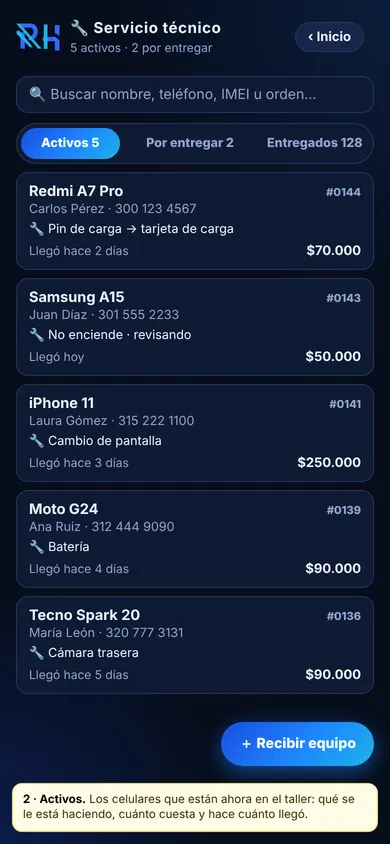
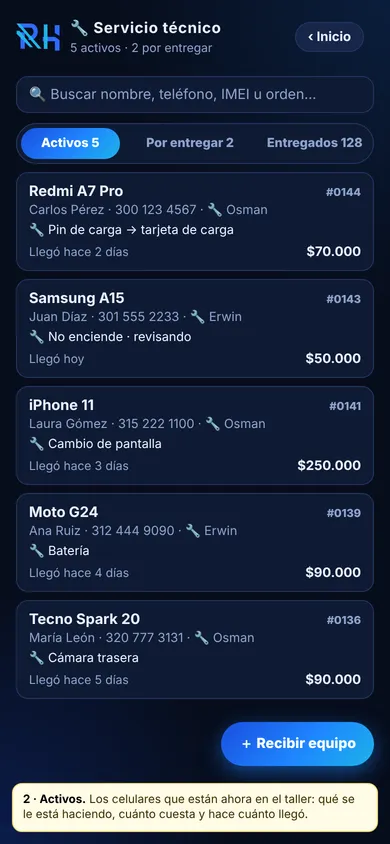
Maqueta Servicio técnico: técnico (Osman/Erwin) y sin garantía
Claude-Session: https://claude.ai/code/session_01DEMzrWSaudLimiiRZi8k6E

diff --git a/docs/servicio-tecnico/maqueta.html b/docs/servicio-tecnico/maqueta.html
@@ -143,17 +143,17 @@
 <div class="cuerpo">
  <div class="buscar">🔍 Buscar nombre, teléfono, IMEI u orden…</div>
  <div class="tabs3"><span class="on">Activos 5</span><span>Por entregar 2</span><span>Entregados 128</span></div>
- <div class="eq"><div class="top"><b>Redmi A7 Pro</b><span class="n">#0144</span></div><div class="c">Carlos Pérez · 300 123 4567</div><div class="t">🔧 Pin de carga → tarjeta de carga</div><div class="pie"><span>Llegó hace 2 días</span><span> <b>$70.000</b></span></div></div>
- <div class="eq"><div class="top"><b>Samsung A15</b><span class="n">#0143</span></div><div class="c">Juan Díaz · 301 555 2233</div><div class="t">🔧 No enciende · revisando</div><div class="pie"><span>Llegó hoy</span><span> <b>$50.000</b></span></div></div>
- <div class="eq"><div class="top"><b>iPhone 11</b><span class="n">#0141</span></div><div class="c">Laura Gómez · 315 222 1100</div><div class="t">🔧 Cambio de pantalla</div><div class="pie"><span>Llegó hace 3 días</span><span> <b>$250.000</b></span></div></div>
- <div class="eq"><div class="top"><b>Moto G24</b><span class="n">#0139</span></div><div class="c">Ana Ruiz · 312 444 9090</div><div class="t">🔧 Batería</div><div class="pie"><span>Llegó hace 4 días</span><span> <b>$90.000</b></span></div></div>
- <div class="eq"><div class="top"><b>Tecno Spark 20</b><span class="n">#0136</span></div><div class="c">María León · 320 777 3131</div><div class="t">🔧 Cámara trasera</div><div class="pie"><span>Llegó hace 5 días</span><span> <b>$90.000</b></span></div></div>
+ <div class="eq"><div class="top"><b>Redmi A7 Pro</b><span class="n">#0144</span></div><div class="c">Carlos Pérez · 300 123 4567 · 🔧 Osman</div><div class="t">🔧 Pin de carga → tarjeta de carga</div><div class="pie"><span>Llegó hace 2 días</span><span> <b>$70.000</b></span></div></div>
+ <div class="eq"><div class="top"><b>Samsung A15</b><span class="n">#0143</span></div><div class="c">Juan Díaz · 301 555 2233 · 🔧 Erwin</div><div class="t">🔧 No enciende · revisando</div><div class="pie"><span>Llegó hoy</span><span> <b>$50.000</b></span></div></div>
+ <div class="eq"><div class="top"><b>iPhone 11</b><span class="n">#0141</span></div><div class="c">Laura Gómez · 315 222 1100 · 🔧 Osman</div><div class="t">🔧 Cambio de pantalla</div><div class="pie"><span>Llegó hace 3 días</span><span> <b>$250.000</b></span></div></div>
+ <div class="eq"><div class="top"><b>Moto G24</b><span class="n">#0139</span></div><div class="c">Ana Ruiz · 312 444 9090 · 🔧 Erwin</div><div class="t">🔧 Batería</div><div class="pie"><span>Llegó hace 4 días</span><span> <b>$90.000</b></span></div></div>
+ <div class="eq"><div class="top"><b>Tecno Spark 20</b><span class="n">#0136</span></div><div class="c">María León · 320 777 3131 · 🔧 Osman</div><div class="t">🔧 Cámara trasera</div><div class="pie"><span>Llegó hace 5 días</span><span> <b>$90.000</b></span></div></div>
 </div>
 <div class="fab">＋ Recibir equipo</div>
 <div class="nota"><b>2 · Activos.</b> Los celulares que están ahora en el taller: qué se le está haciendo, cuánto cuesta y hace cuánto llegó.</div>
 </section>
 <section class="pantalla" id="p3">
-<div class="enc"><div><h1>#0144 · Redmi A7 Pro</h1><small>Carlos Pérez · 300 123 4567 · contraseña •••• <span style="color:var(--celeste)">ver</span></small></div><div class="acc"><span class="bt">‹ Volver</span></div></div>
+<div class="enc"><div><h1>#0144 · Redmi A7 Pro</h1><small>Carlos Pérez · 300 123 4567 · contraseña •••• <span style="color:var(--celeste)">ver</span><br>🔧 Técnico: Osman · <span style="color:var(--celeste)">cambiar</span></small></div><div class="acc"><span class="bt">‹ Volver</span></div></div>
 <div class="cuerpo" style="padding-top:0">
  <div class="tarjeta"><h4>🧾 Historial del arreglo</h4>
   <div class="linea" style="--c:var(--suave)"><small>25 nov 9:10 a. m. · Andrés</small>Llegó por <b>pin de carga</b>. No carga. Cotizado <b>$45.000</b>.</div>
@@ -228,7 +228,7 @@
 <section class="pantalla" id="p8">
 <div class="enc"><div><h1>#0144 · Redmi A7 Pro</h1><small>🔒 Entregado 27 nov · no se puede borrar</small></div><div class="acc"><span class="bt">‹ Volver</span></div></div>
 <div class="cuerpo" style="padding-top:0">
- <div class="tarjeta"><h4>👤 Cliente y equipo</h4><div class="kv"><span>Cliente</span><span>Carlos Pérez · 300 123 4567</span><span>Contraseña</span><span>•••• <span style="color:var(--celeste)">ver</span></span><span>Equipo</span><span>Redmi A7 Pro · azul · IMEI …7731</span><span>Llegó con</span><span>SIM, forro · Otro: llavero</span></div></div>
+ <div class="tarjeta"><h4>👤 Cliente y equipo</h4><div class="kv"><span>Cliente</span><span>Carlos Pérez · 300 123 4567</span><span>Contraseña</span><span>•••• <span style="color:var(--celeste)">ver</span></span><span>Equipo</span><span>Redmi A7 Pro · azul · IMEI …7731</span><span>Llegó con</span><span>SIM, forro · Otro: llavero</span><span>Técnico</span><span>Osman</span></div></div>
  <div class="tarjeta"><h4>🧾 Lo que se hizo</h4>
   <div class="linea" style="--c:var(--suave)"><small>25 nov · Andrés</small>Llegó por pin de carga. Cotizado $45.000.</div>
   <div class="linea" style="--c:var(--celeste)"><small>25 nov · Osman</small>Se cambió el pin. No funcionó. Tarjeta de carga mala.</div>
@@ -248,6 +248,7 @@
  <div class="dos"><div class="campo"><label>Equipo</label><div class="in ia">Samsung A15 · negro</div></div><div class="campo"><label>Contraseña / patrón</label><div class="in ia">Patrón en L 🔒</div></div></div>
  <div class="campo"><label>¿Qué tiene? (lo que dice el cliente)</label><div class="in ia">No enciende</div></div>
  <div class="dos"><div class="campo"><label>Precio cotizado</label><div class="in ia">$50.000</div></div><div class="campo"><label>Abono · cómo pagó</label><div class="in">$20.000 · 💵</div></div></div>
+ <div class="campo"><label>Técnico</label><div class="metodos" style="grid-template-columns:1fr 1fr"><span class="on">🔧 Osman</span><span>🔧 Erwin</span></div></div>
  <div class="campo"><label>Llegó con</label><div class="checks"><span class="on">SIM</span><span>Memoria</span><span class="on">Forro</span><span>Cargador</span><span>Caja</span><span class="on">＋ Otro</span></div><div class="in" style="margin-top:5px">Otro: <span style="color:var(--texto)">llavero y protector de cámara</span></div></div>
  <div class="campo"><label>Estado al recibir</label><div class="checks"><span>Pantalla rota</span><span class="on">Rayones</span><span>Golpes</span><span>Mojado</span><span class="on">No enciende</span><span class="on">＋ Otro</span></div><div class="in" style="margin-top:5px">Otro: <span style="color:var(--texto)">tapa trasera despegada</span></div></div>
  <div class="acc pdf" style="margin-top:10px">Guardar · 📷 fotos al recibir · recibo</div>
